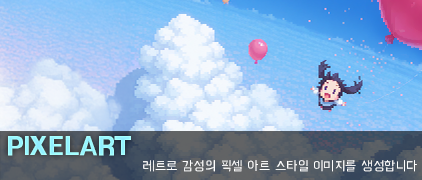
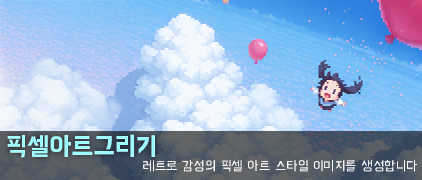
픽셀레이터 워크플로우 변경

Changed region(s): [[0.0, 0.75, 0.3697, 0.8889]]

diff --git a/static/js/app_config.js b/static/js/app_config.js
@@ -95,6 +95,11 @@
         // 예: 이미지에 텍스트가 내장된 경우 아래를 false로 설정
         showTitle: false,     // 배너 이미지에 텍스트가 포함돼 있다면 false
         showDescription: false // 배너 이미지에 텍스트가 포함돼 있다면 false
+      },
+      'ILXL_Pixelator': {
+        url: '/static/img/banner/img_banner_workflow_pixelator.png',
+        showTitle: false,
+        showDescription: false
       }
     }
   };
